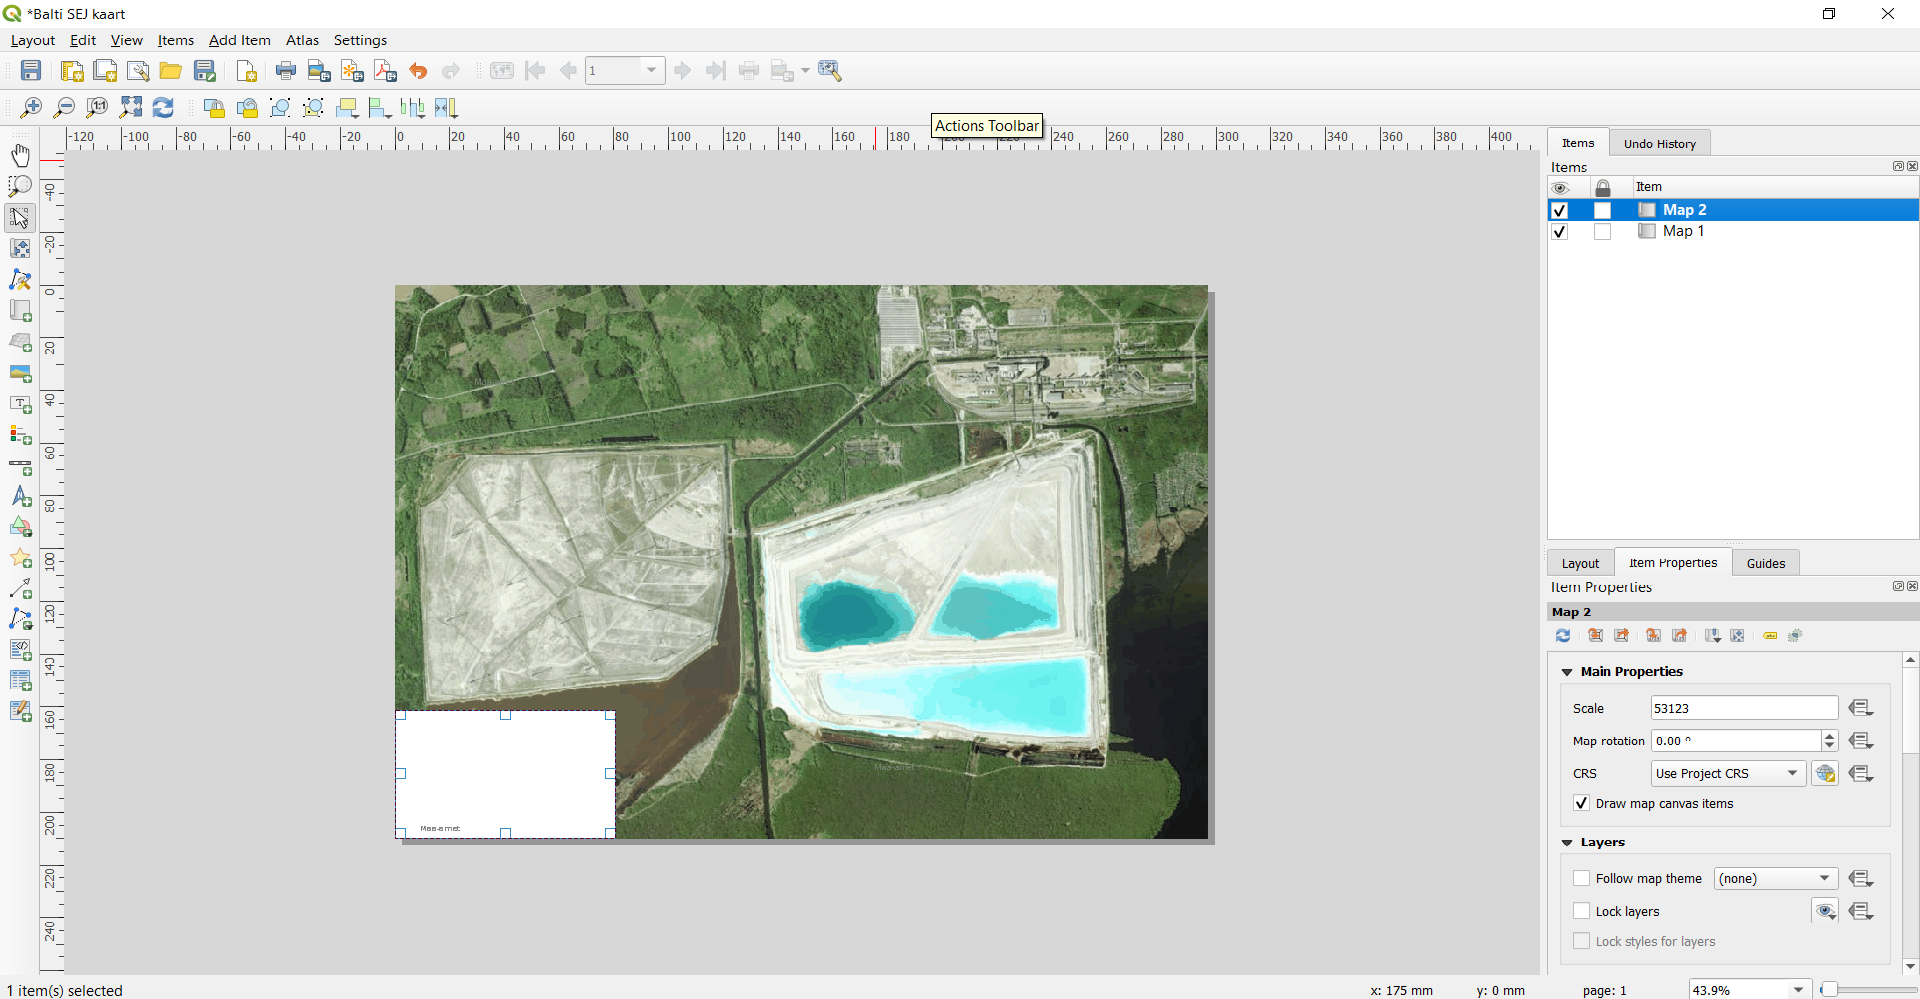
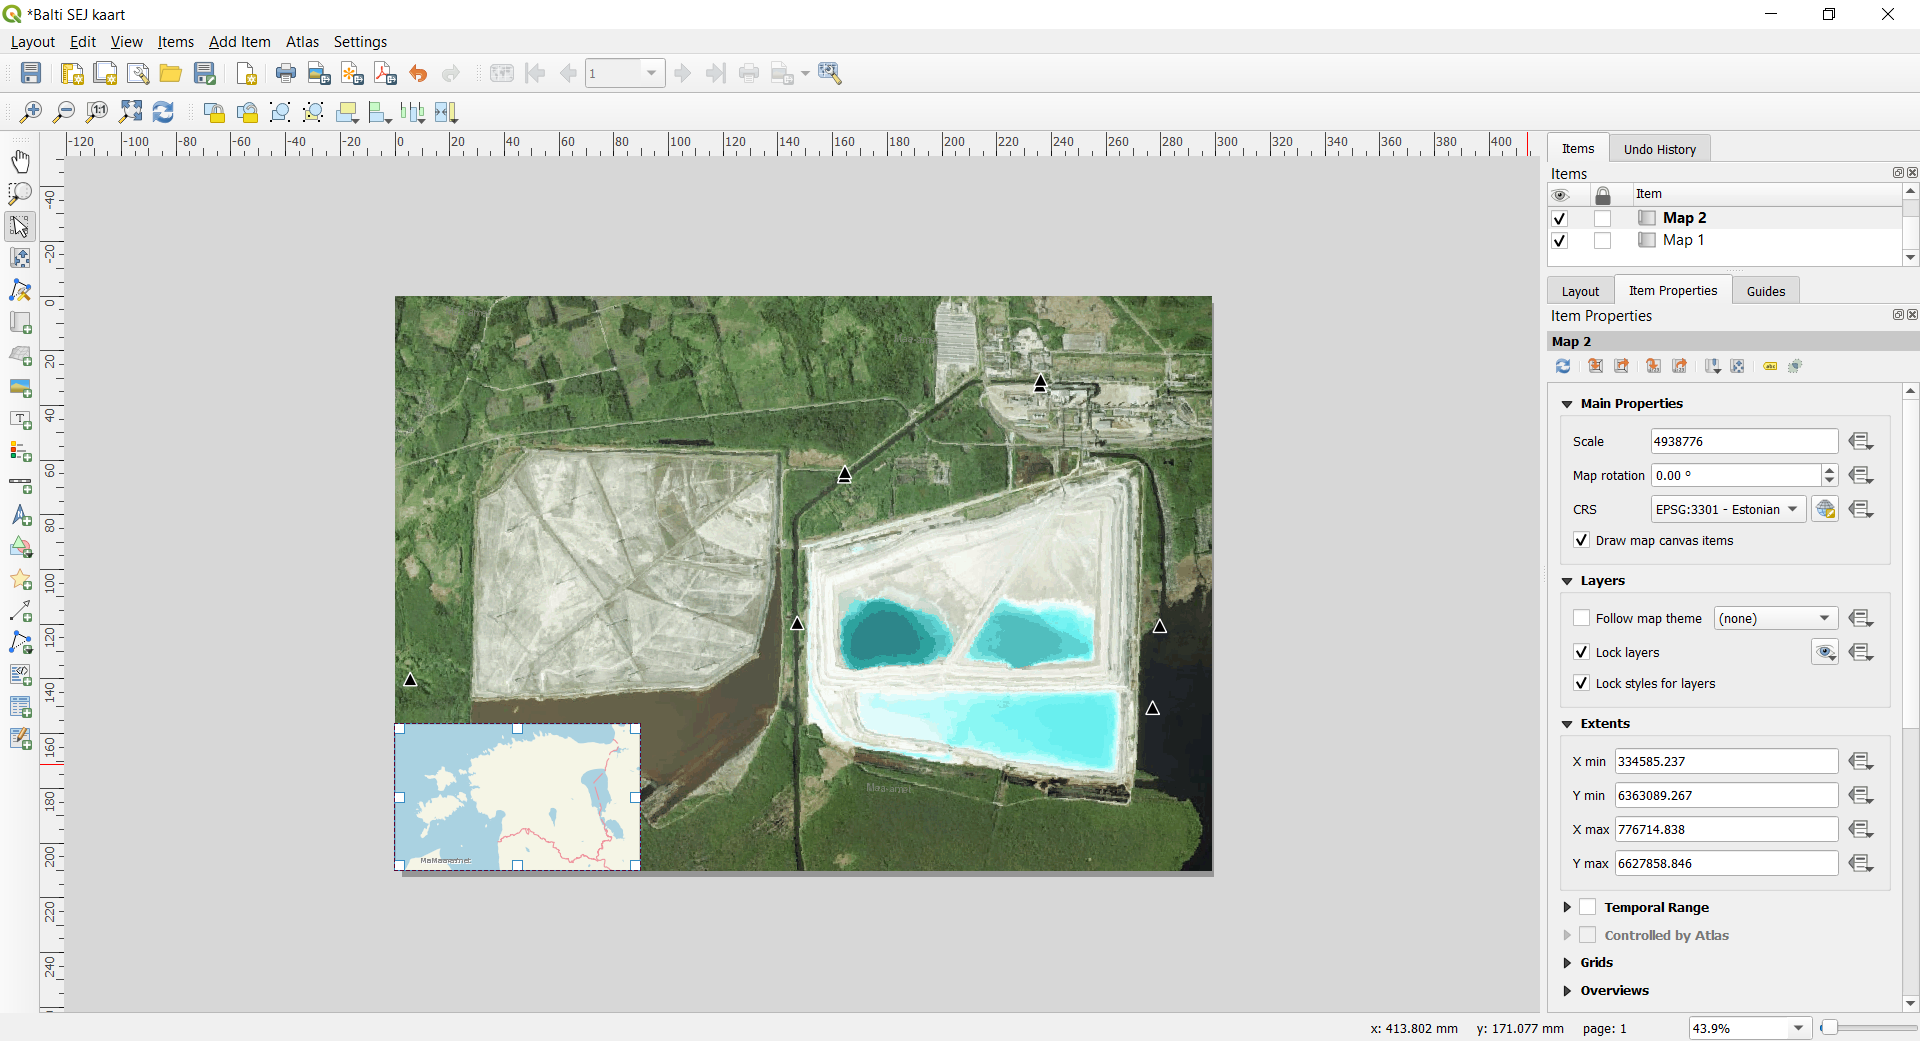
kaardi tegemise parandused

diff --git a/_posts/qgis/2024-07-11-making-a-map-est.md b/_posts/qgis/2024-07-11-making-a-map-est.md
@@ -16,30 +16,34 @@ Kaart on kõige tavalisem GIS-i väljund. See juhend õpetab kuidas luua kaarti 
   * [2.1. Põhikaardi tegemine](#21-põhikaardi-tegemine)
   * [2.2. Väljalõikekaardi tegemine](#22-väljalõikekaardi-tegemine)
   * [2.3. Põhjasuuna noole, mõõtkava, kaardi pealkirja ja legendi lisamine](#23-põhjasuuna-noole-mõõtkava-kaardi-pealkirja-ja-legendi-lisamine)
-  * [2.4. Kaardi salvestamine pildina](#24-kaardi-salvestamine-pildina)
-  * [2.5. Baaskaartide lisamine](#25-baaskaartide-lisamine)
+  * [2.5. Kaardile legendi lisamine](#24-kaardile-legendi-lisamine)
+  * [2.5. Kaardi salvestamine pildina](#25-kaardi-salvestamine-pildina)
+  * [2.6. Baaskaartide lisamine](#26-baaskaartide-lisamine)
 
 ### 1. Kasutatavad andmed
 
-Antud ülesandes kasutamine [<span style="color:#0564A0">Maa-ameti WMS-teenust</span>](https://geoportaal.maaamet.ee/est/Teenused/WMSWFS-teenused-p65.html). Maa-amet pakub palju erinevaid andmekihte ja baaskaarte, mida saab otse QGIS-i laadida.
+Antud ülesandes kasutame [<span style="color:#0564A0">Maa-ameti WMS-teenust</span>](https://geoportaal.maaamet.ee/est/Teenused/WMSWFS-teenused-p65.html)ja [<span style="color:#0564A0">EELISe WFS-teenust</span>](https://gsavalik.envir.ee/geoserver/eelis/ows?version=2.0.0). Maa-amet pakub palju erinevaid andmekihte ja baaskaarte, mida saab otse QGIS-i laadida.
 
-**Andmete allikas:** [<span style="color:#0564A0">Maa-amet</span>](https://geoportaal.maaamet.ee/est/Teenused/WMSWFS-teenused-p65.html)
+**Andmete allikad:** [<span style="color:#0564A0">Maa-amet</span>](https://geoportaal.maaamet.ee/est/Teenused/WMSWFS-teenused-p65.html) ja [<span style="color:#0564A0">EELIS</span>](https://metadata.geoportaal.ee/geonetwork/srv/api/records/%7BA3FD7235-1187-49A4-BBDA-CA51D016B03D%7D).
 
 ### 2. Kaardi loomise etapid
 #### 2.1. Põhikaardi tegemine
 1. Andmete alla laadimiseks avage QGIS. Järgmiseks peame lisama uue kihi. Vali *Menu bar*-ilt `Layer ► Add layer ► Add WMS/WMTS Layer`. Avanenud aknas valige `New` ning `Name` alla kirjuta näiteks Maa-ameti aluskaart ja URL alla kopeerige link: https://kaart.maaamet.ee/wms/fotokaart? Maa-ameti leheküljelt. Siis vajutage `OK` ning `Connect`. Nüüd ilmusid andmekihid, mida saadte oma kaardile lisada. Antud töö jaoks pole aga kõiki kihte vaja, kuna see muudaks kaardi ülekoormatuks. Seega valime vaid osad kihid. Vajutades loendi aknas noole märgile, saab lisada ka üksikuid kihte. Ortofotode alt valige kiht, mille pealkiri on Ortofoto ning Halduspiiride alt valige halduspiir (1:600 000), Välisriikide piirid, jarved (1:2 000 000), Eesti-Vene kontrolljoon, meri (1:420 000) ja suur maismaa (1:420 000). Mitu kihti saab korraga valida hoides all Ctrl klahvi. Lisaks tee linnuke kasti `Load as separate layers`.
 ![image of browse data ](../../images/e2_wms_lisamine.png)
-2. Teie tegevust QGIS-is kutsutakse projektiks. QGIS saab korraga töötada ühe projektiga. Palun salvestage oma projekt `Project ► Save as` oma kausta. Proketi fail salvestab sinu lisatud kihid, kihtide atribuudid ja leppemärgid, kaardivaate projektsiooni jms. Lisainfot QGIS-i projekti kohta saad siit lehelt [<span style="color:#0564A0">QGIS Documentation</span>](https://docs.qgis.org/3.28/en/docs/user_manual/introduction/project_files.html#working-with-project-files).
-3. Kasuta *pan* and *zoom* nuppe *Map Navigation Toolbar*-il ning suurenda kaardil nähtavaks Balti SEJ. 
+2. Nüüd lisame EELISe WFS-teenusest paar kihti. Selleks vali *Menu bar*-ilt `Layer ► Add layer ► Add WFS Layer`. Avanenud aknas valige `New` ning `Name` alla kirjuta näiteks EELISe kiht ja URL alla kopeerige link: https://gsavalik.envir.ee/geoserver/eelis/ows?version=2.0.0 . Siis vajutage `OK` ning `Connect`. Ilmunud kihtidest lisage nii nagu eelmises puntis kiht: Keskkonnaseire jaamad, alad ja kohad (riiklik seire). Selleks, et kiht omale arvutisse salvestada tee parem hiireklõps antud kihil ja siis vajuta `Export ► Save Features As`. *File name* juures vajutage kolme puktiga nupule ning salvestage fail sobiva nimega oma tööfaili. Peale seda võid eelnevalt alla laetud kihi ära kustutada (*Remove layer*).
+3. Teie tegevust QGIS-is kutsutakse projektiks. QGIS saab korraga töötada ühe projektiga. Palun salvestage oma projekt `Project ► Save as` oma kausta. Proketi fail salvestab sinu lisatud kihid, kihtide atribuudid ja leppemärgid, kaardivaate projektsiooni jms. Lisainfot QGIS-i projekti kohta saad siit lehelt [<span style="color:#0564A0">QGIS Documentation</span>](https://docs.qgis.org/3.28/en/docs/user_manual/introduction/project_files.html#working-with-project-files).
+4. Kasuta *pan* and *zoom* nuppe *Map Navigation Toolbar*-il ning suurenda kaardil nähtavaks Balti SEJ. 
 ![image of zoom](../../images/e2_zoom_BaltiSEJ.png)
-4. Enne kui saame teha printimiseks sobiva kaardi, peame valima sobiva projektsiooni *Status bar*-ilt ![image of browse data](../../images/icon_crs.png), mis asub alumises paremas nurgs. Kuna laadisime andmed alla Maa-ametist, siis on automaatselt projektsioon EPSG: 3301[^1], mis on Eesti koordinaatsüsteem. Seega sobib antud projektsioon meie tööks.
-5. Uue küljendatud kaardi (*map layout*) loomiseks vali `Project ► New Print Layout` või vajuta *Show Layout Manager* ![image of icon layout](../../images/icon_layout.png). Loo uus küljendatud kaart ja nimeta see (näiteks Balti SEJ kaart). 
+5. Enne kui saame teha printimiseks sobiva kaardi, peame valima sobiva projektsiooni *Status bar*-ilt ![image of browse data](../../images/icon_crs.png), mis asub alumises paremas nurgs. Kuna laadisime andmed alla Maa-ametist, siis on automaatselt projektsioon EPSG: 3301[^1], mis on Eesti koordinaatsüsteem. Seega sobib antud projektsioon meie tööks.
+6. Lisaks peame keskkonnaseire jaamase leppemärgid sobivaks. Selleks tee parem hiireklõps keskkonnaseire jaamade kihil ning vajuta `Properties ► Symbology`. Kujunda endale meelepärane leppemärk või vajuta noolekesele otsingukasti kõrval ja vali *Topology* ning keri alla kuni leiad leppemärgi *topo pop village* ning vajuta sellele. Siis vajuta `Simple Marker` ja muuda `Size` suuruseks 5.0 ja `Stroke width` suuruseks 0.5. Lõpetuseks vajuta `Apply`. 
+![image of symbology](../../images/e2_jaamad_symbology.png)
+7. Uue küljendatud kaardi (*map layout*) loomiseks vali `Project ► New Print Layout` või vajuta *Show Layout Manager* ![image of icon layout](../../images/icon_layout.png). Loo uus küljendatud kaart ja nimeta see (näiteks Balti SEJ kaart). 
 ![image of browse data](../../images/2_new_layout.png)
-6. Nüüd on meil olemas n-ö lõuend, kuhu saame lisada kaardi *map view*-st. Automaatselt on *map layout* horisontaalses formaadis, mis sobib antud töö jaoks, aga seda on võimalik muuta ka portree formaatiks. Selleks peab tegema parema hiireklõpsu lõuendil ja siis valima `Page Properties`. Siis avaneb paneel paremas ääres, kus saab muuta lehe orientatsiooni. 
+8. Nüüd on meil olemas n-ö lõuend, kuhu saame lisada kaardi *map view*-st. Automaatselt on *map layout* horisontaalses formaadis, mis sobib antud töö jaoks, aga seda on võimalik muuta ka portree formaatiks. Selleks peab tegema parema hiireklõpsu lõuendil ja siis valima `Page Properties`. Siis avaneb paneel paremas ääres, kus saab muuta lehe orientatsiooni. 
 ![image of page properties](../../images/2_page properties.png)
-7. Selleks, et kaarti lisada, peab menüüst valima `Add Item  ► Add Map` või vajutama ![image of browse data](../../images/icon_add_map.png), mis muudab *Add map mode* aktiivseks. Hoia all hiire vasakut klahvi ning tõmba ristkülik sinna, kus tahad, et kaart oleks. Hetkel tahame, et terve lõuend oleks kaetud.
+9. Selleks, et kaarti lisada, peab menüüst valima `Add Item  ► Add Map` või vajutama ![image of browse data](../../images/icon_add_map.png), mis muudab *Add map mode* aktiivseks. Hoia all hiire vasakut klahvi ning tõmba ristkülik sinna, kus tahad, et kaart oleks. Hetkel tahame, et terve lõuend oleks kaetud.
 ![image of add map](../../images/e2_addmap.png)
-8. Nagu näha, esitatakse tõmmatud ristkülikusse kaart põhi QGIS *Map view*-st. Kui te eelnevas punktis ei tõmmanud kaarti terve lõuandi ulatuses, ei pruugi esitatud kaardil olla näha kogu meid huvitav ala. Kaardi liigutamiseks ja tsentreerimiseks vali menüüst `Edit ‣ Select/Move item aja Edit ‣ Move Content` või kasuta kaardi liigutamiseks ![image of icon select data](../../images/icon_select_move item.png) ja ![image of move content](../../images/icon_move_content.png). Selleks, et suurendatust reguleerida, vajuta *Item Properties* vahekaardile ning sisesta *Scale value*: 20000. Võib ka vajutada nupule ![image of move content](../../images/icon_move_content.png) ning kasutada hiire kerimist, et kaarti suurendada ja vähendada, aga see pole eriti mugav. 
+10. Nagu näha, esitatakse tõmmatud ristkülikusse kaart põhi QGIS *Map view*-st. Kui te eelnevas punktis ei tõmmanud kaarti terve lõuandi ulatuses, ei pruugi esitatud kaardil olla näha kogu meid huvitav ala. Kaardi liigutamiseks ja tsentreerimiseks vali menüüst `Edit ‣ Select/Move item aja Edit ‣ Move Content` või kasuta kaardi liigutamiseks ![image of icon select data](../../images/icon_select_move item.png) ja ![image of move content](../../images/icon_move_content.png). Selleks, et suurendatust reguleerida, vajuta *Item Properties* vahekaardile ning sisesta *Scale value*: 40000. Võib ka vajutada nupule ![image of move content](../../images/icon_move_content.png) ning kasutada hiire kerimist, et kaarti suurendada ja vähendada, aga see pole eriti mugav. 
 ![image of scale](../../images/e2_scale.png)
 
 #### 2.2. Väljalõikekaardi tegemine
@@ -71,13 +75,36 @@ Antud ülesandes kasutamine [<span style="color:#0564A0">Maa-ameti WMS-teenust</
 25. Lisame kaardile ka mõõtkava[^3]. Vajuta `Add Item ► Add Scalebar` või vajuta nupule *Add Scale Bar* ![image of add scale bar](../../images/icon_add scalebar.png). Vajuta kaardil kohale, kus soovid, et mõõtkava asuks. Kontrolli *Item Properties* vahekaardil, et oled valinud õige kaardi elemendi <span style="font-family:Consolas">Map 1</span>, millele mõõtkava lisada. Vali see *Style*, mis sulle meeldib. Paneelil nimega *Segments* muuda segmentide arv sulle meeldivaks. Veel on võimalik muuta mõõtkava mitmeid omadusi. Mõõtkava kujundamise ja reguleerimise kohta lisainfot saad lehelt [<span style="color:#0564A0">QGIS Documentation</span>](https://docs.qgis.org/3.28/en/docs/user_manual/print_composer/composer_items/composer_scale_bar.html#the-scale-bar-item).
 ![image of add scale bar](../../images/e2_add_scalebar.png)
 
-#### 2.4. Kaardi salvestamine pildina
+#### 2.4. Kaardile legendi lisamine
+28. Finally, we will add legend to the map. Click on `Add Item ► Add Legend` or alternatively click on Add Legend
+![image of add scale bar](../../images/icon_add legend.png). Click on the layout where you want the scalebar to appear and holding left-side mouse button draw a rectangle. The legend should appear and it will cover most of the map as it is pulling automatically the legend info from all the layers in the Map view. We need to switch off most of the layers from the legend. In the Item Properties tab, scroll down to Legend items and uncheck the Auto update  under the Legend items. This will disconnect the legend from the map view layer panel and several legend adjustment buttons will become active.
+![image of add legend](../../images/2_add legend.png)
+29. We will first remove all the unnecessary layers from the legend. Under the Legend items, select all layers except <span style="font-family:Consolas; color:#AF1B03">z7 / 1:4</span> and click Remove selected item(s) from legend.
+![image of add legend](../../images/2_delete legend items.png)
+30. For the simplicity, we will show only cities and other populated places in the legend. Therefore we will delete all other sublayers of the <span style="font-family:Consolas; color:#AF1B03">z7 / 1:4</span>. Click on the small arrow next to the layer group name under Legend items. This should reveal sublayers of the group. Delete all sublayers of the <span style="font-family:Consolas; color:#AF1B03">z7 / 1:4</span> except layer <span style="font-family:Consolas; color:#AF1B03">ne_10m_populated_places z7</span>
+![image of add legend](../../images/2_delete legend items2.png)
+31. Click on the small arrow in front of the layer <span style="font-family:Consolas; color:#AF1B03">ne_10m_populated_places z7</span> to see all of its sublayers. Delete all sublayers except <span style="font-family:Consolas; color:#AF1B03">Admin-0 capital, Admin-1 capital, Populated place</span>.
+![image of add legend](../../images/2_delete legend items3.png)
+32. We will now change the names of the legend items more appropriate. Double click on the <span style="font-family:Consolas; color:#AF1B03">z7 / 1:4m</span> and delete the text and just enter space. The QGIS won't accept leaving the place empty but as we don't need text there then entering space will allow it to keep seemingly empty.
+![image of rename legend items](../../images/2_rename legend items.png).
+33. Delete also the layer name of <span style="font-family:Consolas; color:#AF1B03">ne_10m_populated_places z7</span> similarly to previous step.
+34. Rename layer name <span style="font-family:Consolas; color:#AF1B03">Admin-0 capital</span> to <span style="font-family:Consolas; color:#AF1B03">Capital city</span>, layer name <span style="font-family:Consolas; color:#AF1B03">Admin-1 capital</span> to <span style="font-family:Consolas; color:#AF1B03"> Administrative unit capital</span>.
+![image of rename legend items](../../images/2_rename legend items2.png)
+35. Because of deleting some of the layer names, there is too much white space on the top of the legend. We will remove this by using Spacing options under Legend properties. Scroll down in the Legend Item properties tab to Spacing. Open it's options by clicking on a small arrow next to it. Change the value of Legend Title ‣ Space below to zero and Subgroups ‣ Above subgroup also zero. Note while doing that how the legend changes.
+![image of change legend spacing](../../images/2_change legend spacing.png)
+36. We will add a title to the legend. Click `Add Item ► Add Label` or alternatively click on Add Label ![image of add label](../../images/icon_add label.png) and while holding left-side mouse button draw a label box to the legend. Rename it to "Legend"
+![image of add legend title](../../images/2_add_legend title.png)
+37. Finally, we will make the legend background more fitting with the map. In the legend's Item Properties tab scroll down to Background and click on the color option. In the color options scroll down to Opacity and reduce the opacity to 35%. This will make the legend background partially transparent making it less dominant. The map elements like legend, title, north arrow should not be too dominant on the map itself is the most important.
+![image of add legend background](../../images/2_legend background.png)
+![image of add legend background](../../images/2_legend background2.png)
+
+#### 2.5. Kaardi salvestamine pildina
 38. Kui olete kaardiga rahul, siis saate selle pildi, PDF või SVG vormis salvestada. Antud juhedis salvestame kaardi pildina. Vajutage `Click Layout ► Export as Image`. Andke failile sobiv nimi ning kontrollige, et *Image Export Options* all on *Export resolution* 300 dpi. 300 dpi on minimaalne printimiseks nõutud eraldusvõime. Kui soovite kaarti internetis avaldada, siis võite eraldusvõimet vähendada 150-200 dpi-ni. Aga kui kaardi kasutamise eesmärk pole kindel, siis jätke eraldusvõimeks 300 dpi, kuna oleks kahju, kui te kujundate ilusa kaardi, aga keegi ei saa seda halva eraldusvõime tõttu lugeda.
 ![image of image export](../../images/e2_image_export.png)
 39. Õnnitlused! Olete loonud oma esimese kaardi! :smile:
 ![image of final map](../../images/e2_final_map.png)
 
-#### 2.5. Baaskaartide lisamine
+#### 2.6. Baaskaartide lisamine
 3. Lisaks õpime kuidas kaardile lisada baaskaart. Mõnikord on praktiline kasutada juba stiliseeritud baaskaarte selle asemel, et ise baaskaart kujundada. [<span style="color:#0564A0">Klas Karlsson'il</span>](https://github.com/klakar) on hea kollektsioon erinevatest baaskaartidest, mille lisamiseks on vaja vaid QGIS-is käivitada antud Python skript. Ava Github-ist [<span style="color:#0564A0">qgis_basemaps.py</span>](https://github.com/klakar/QGIS_resources/blob/master/collections/Geosupportsystem/python/qgis_basemaps.py) ja kopeeri (`Crtl+C`) skript alates reast # Sources.
 ![image](../../images/5_select script.png)
 4. Mine tagasi QGIS-i ja ava *Python Console*. Selleks vajuta *toolbar*-il ![image](../../images/icon_python console.png). *Python Console* avaneb *Map view* all. Kleebi skript ning vajuta klaviatuuril Enter. Peale seda võite *Python Console*-i sulgeda. 
